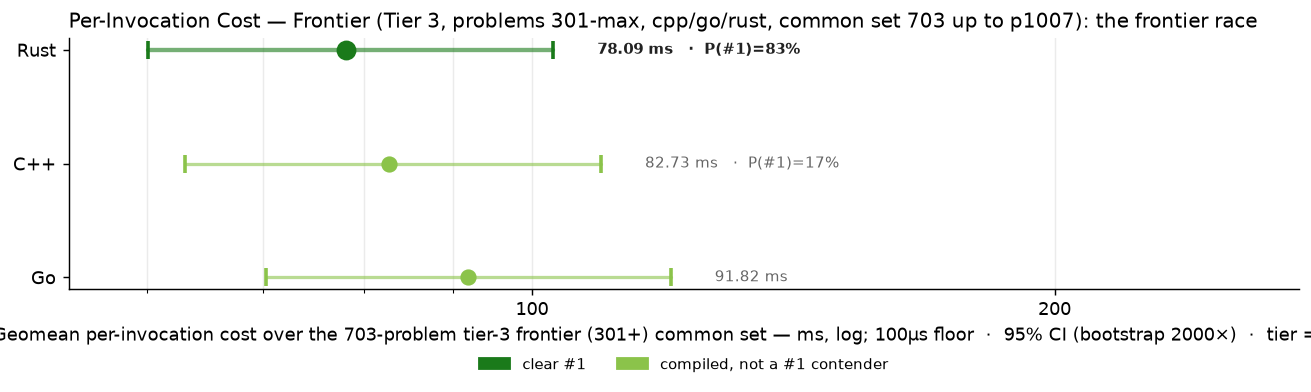
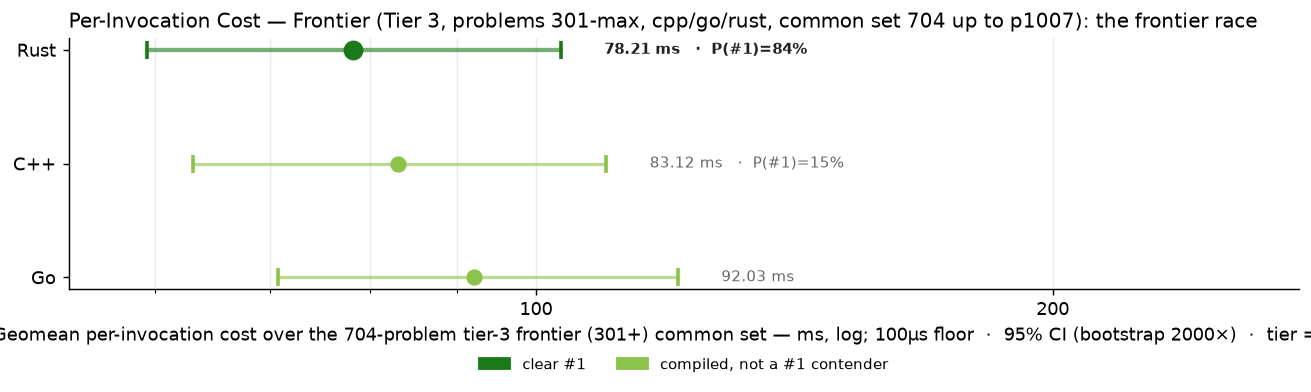
cpp p0763

diff --git a/RESULTS.md b/RESULTS.md
@@ -1,6 +1,6 @@
 # Project Euler — Cross-Language Benchmarks
 
-> **Scope: 4521 in-scope cells across 1007 problems × tiered languages — 4511 measured (99.8% coverage).**
+> **Scope: 4521 in-scope cells across 1007 problems × tiered languages — 4512 measured (99.8% coverage).**
 > The cross-language ranking below is computed over the **200-problem common set** (problems in 1-200 where every language has a passing measurement) — the apples-to-apples Foundation comparison surface.  Per-tier rankings and coverage detail appear further below.
 > Growing carefully — each new problem and language is audited for state-leak
 > safety, verified for answer correctness, and added only when it cleanly fits the
@@ -70,15 +70,15 @@ Same scatter as the Foundation chart, restricted to the tier-2 active languages 
 
 The frontier verification trio — C++, Go, Rust — on problems above 300. 3-way cross-language agreement is the verification protocol (strictly stronger than 2-way; see JOURNEY.md "Tier Reframing" episode for the p254 lesson that motivated it). Python and Zig are explicitly out of this tier — python's wall cost makes it impractical at level 5+, and zig's role caps at Tier 2.
 
-### Per-Invocation Cost (Common Set, 703 of ≤707 problems in scope)
+### Per-Invocation Cost (Common Set, 704 of ≤707 problems in scope)
 
 ![Per-Invocation Cost — Tier 3](charts/per_iter_total_tier3.png)
 
-| Rank | Language | Geomean (703-problem common set) | Total (sum) | Lines of code | vs Fastest |
+| Rank | Language | Geomean (704-problem common set) | Total (sum) | Lines of code | vs Fastest |
 |------|----------|--------------------:|------------:|--------------:|-----------:|
-| 1 | **Rust** | 78.09 ms | 1805.43 s | 146,116 | 1.00× |
-| 2 | **C++** | 82.73 ms | 1982.26 s | 107,104 | 1.06× |
-| 3 | **Go** | 91.82 ms | 2191.80 s | 137,052 | 1.18× |
+| 1 | **Rust** | 78.21 ms | 1805.66 s | 146,316 | 1.00× |
+| 2 | **C++** | 83.12 ms | 1984.46 s | 107,228 | 1.06× |
+| 3 | **Go** | 92.03 ms | 2192.25 s | 137,205 | 1.18× |
 
 ### Speed vs Code Size
 
@@ -264,7 +264,7 @@ table never silently mixes versions (METHODOLOGY.md §4).  Current state of the
 |----------|-----------|------:|---------------|
 | **ARM64** | `Apple clang version 21.0.0 (clang-2100.1.1.101)` | 200 | 2026-07-30 |
 | **C** | `Apple clang version 21.0.0 (clang-2100.1.1.101)` | 200 | 2026-07-30 |
-| **C++** | `Apple clang version 21.0.0 (clang-2100.1.1.101)` | 1003 | 2026-09-12 |
+| **C++** | `Apple clang version 21.0.0 (clang-2100.1.1.101)` | 1004 | 2026-09-12 |
 | **C#** | `10.0.101` | 200 | 2026-07-30 |
 | **Go** | `go version go1.26.5 darwin/arm64` | 1004 | 2026-09-12 |
 | **Java** | `openjdk version "21.0.2" 2024-01-16 LTS` | 200 | 2026-07-30 |

diff --git a/per_problem/per_problem_0701-0800.md b/per_problem/per_problem_0701-0800.md
@@ -70,7 +70,7 @@ in tier-1 display order (native → managed → interpreted).
 | **p0760** | 24.2 µs | 16.1 µs | 27.3 µs |
 | **p0761** | — | — | — |
 | **p0762** | 23.82 ms | 26.66 ms | 145.06 ms |
-| **p0763** | — | 234.19 ms | 455.09 ms |
+| **p0763** | 2.20 s | 234.19 ms | 455.09 ms |
 | **p0764** | 1.86 s | 2.67 s | 2.68 s |
 | **p0765** | 72.61 ms | 576.8 µs | 423.4 µs |
 | **p0766** | 12.77 s | 939.20 ms | 1.42 s |
